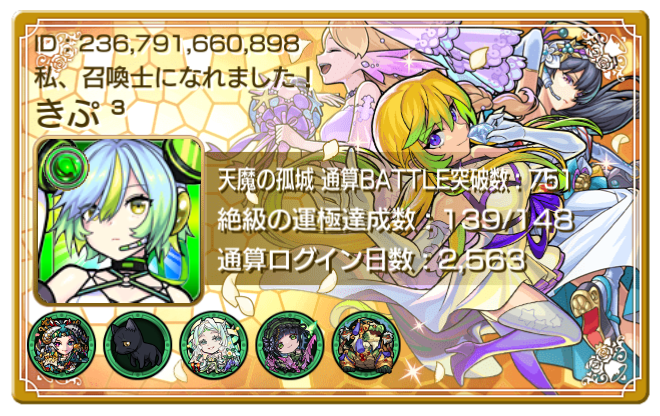
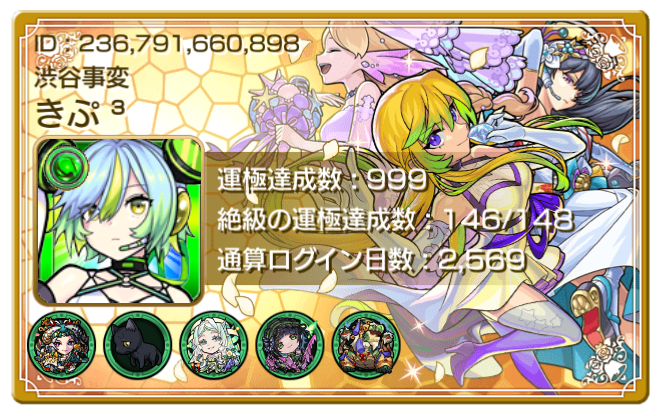
旧絶級　コンプリート記念日

diff --git a/monst.html b/monst.html
@@ -26,16 +26,16 @@
     <dd>・実際の戦績を公開しておく場とする。</dd>
     <img src="https://illustimage.com/photo/1701.png?20151101" alt="" width="400" height="10">
     <dt>[ 基本戦績 ]</dt>
-    <dd>・通算ログイン2563日   約7年</dd>
-    <dd>・ランク1280 </dd>
-    <dd>・運極🍀980↑</dd>
+    <dd>・通算ログイン2569日   約7年</dd>
+    <dd>・ランク1282 </dd>
+    <dd>・運極🍀990↑ </dd>
     <dd>・ガチャ限所持：  1320↑　限定所持：  360↑</dd>
     <dd>・紋章力 </dd>
-    <dd>🔥 16600↑</dd>
-    <dd>🌊 17100↑</dd>
-    <dd>🍃 16700↑</dd>
-    <dd>🌟 18200↑</dd>
-    <dd>👿 18300↑</dd>
+    <dd>🔥 16800↑</dd>
+    <dd>🌊 17200↑</dd>
+    <dd>🍃 16900↑</dd>
+    <dd>🌟 18600↑</dd>
+    <dd>👿 18800↑</dd>
     <img src="https://illustimage.com/photo/1701.png?20151101" alt="" width="400" height="10">
     <dt>[ コンテンツ戦績 ]</dt>
 
@@ -55,13 +55,13 @@
 
     <!-- 禁忌の獄 -->
     <img src="https://img.gamewith.jp/img/2a4bd99184118d7d37e74c7e4073afb9.jpeg" alt="" width="200" height="" title="禁忌の獄">
-    <dd>・制覇回数  55 (深淵7)  回  </dd>
+    <dd>・制覇回数  56 (深淵7)  回  </dd>
 
     <img src="https://illustimage.com/photo/1701.png?20151101" alt="" width="250" height="10"><dd></dd>
 
     <!-- 未開の大地 -->
     <img src="https://img.gamewith.jp/img/275fe70d9f39caa154720955d1e0418a.png" alt="" width="200" height="" title="未開の大地">
-    <dd>・制覇回数  43 (in52) 回  </dd>
+    <dd>・制覇回数  44 (in53) 回  </dd>
 
     <img src="https://illustimage.com/photo/1701.png?20151101" alt="" width="250" height="10"><dd></dd>
 
@@ -88,7 +88,7 @@
     <img src="https://img.gamewith.jp/article_tools/monst/gacha/6103.jpg" alt="" width="30" height="" title="グランディオーソ">🍀31
 
                                                                                                        <!-- ヴァルハラ -->
-    <img src="https://img.gamewith.jp/article_tools/monst/gacha/6699.jpg" alt="" width="30" height="" title="ヴァルハラ">🍀7
+    <img src="https://img.gamewith.jp/article_tools/monst/gacha/6699.jpg" alt="" width="30" height="" title="ヴァルハラ">🍀13
 
                                                                                                        <!-- パズル -->
     <img src="https://img.gamewith.jp/article_tools/monst/gacha/7329.jpg" alt="" width="30" height="" title="パズル">🍀3<dd></dd>
@@ -125,39 +125,38 @@
     <img src="https://illustimage.com/photo/1701.png?20151101" alt="" width="400" height="10">
     <dt>[ 絶級運極　達成状況 ]</dt>
 
-    <dd>絶級クリア数：　186/188 </dd>
-    <dd>絶級運極達成数：　139/148 </dd>
-    <dd>轟絶：33 &emsp;爆絶：44 &emsp;超絶：62 &emsp;黎絶：0</dd>
+    <dd>絶級クリア数：　187/188 </dd>
+    <dd>絶級運極達成数：　146/148 </dd>
+    <dd>超絶：66 &emsp;爆絶：47 &emsp;轟絶：33 &emsp;黎絶：0</dd>
 
     <img src="https://illustimage.com/photo/1701.png?20151101" alt="" width="250" height="10">
 
     <dd>・超絶</dd>
                                                                                                       
-    <img src="https://img.gamewith.jp/article_tools/monst/gacha/5172.jpg" alt="" width="30" height="" title="蔵王権現">🍀81
-    <img src="https://img.gamewith.jp/article_tools/monst/gacha/5419.jpg" alt="" width="30" height="" title="軍荼利明王">🍀5
-    <img src="https://img.gamewith.jp/article_tools/monst/gacha/5523.jpg" alt="" width="30" height="" title="降三世明王">🍀3<dd></dd>
-    <img src="https://img.gamewith.jp/article_tools/monst/gacha/7175.jpg" alt="" width="30" height="" title="オオクチノマカミ">🍀3<dd></dd>
+    <img src="./images/t-z.GIF" alt="" width="250" height="" title="">
+    <dd>🍀極　All　Perfect!</dd>
 
     <img src="https://illustimage.com/photo/1701.png?20151101" alt="" width="250" height="10">
 
     <dd>・爆絶</dd>
                                                                                                       
-    <img src="https://img.gamewith.jp/article_tools/monst/gacha/5441.jpg" alt="" width="30" height="" title="テラ">🍀60
-    <img src="https://img.gamewith.jp/article_tools/monst/gacha/5958.jpg" alt="" width="30" height="" title="フェムト">🍀3<dd></dd>
-    <img src="https://img.gamewith.jp/article_tools/monst/gacha/7092.jpg" alt="" width="30" height="" title="パライソ">🍀23<dd></dd>
+    <img src="./images/b-z.GIF" alt="" width="250" height="" title="">
+    <dd>🍀極　All　Perfect!</dd>
 
     <img src="https://illustimage.com/photo/1701.png?20151101" alt="" width="250" height="10">
 
     <dd>・轟絶</dd>
-                                                                                                      
+                                
+    <img src="./images/g-z.GIF" alt="" width="250" height="">
     <dd>🍀極　All　Perfect!</dd>
 
     <img src="https://illustimage.com/photo/1701.png?20151101" alt="" width="250" height="10">
 
     <dd>・黎絶</dd>
 
-    <img src="https://img.gamewith.jp/article_tools/monst/gacha/7385.jpg" alt="" width="30" height="" title="フォーサー">🍀未クリア
+    <img src="https://img.gamewith.jp/article_tools/monst/gacha/7385.jpg" alt="" width="30" height="" title="フォーサー">🍀1
     <img src="https://img.gamewith.jp/article_tools/monst/gacha/7487.jpg" alt="" width="30" height="" title="ロヴァー">🍀未クリア<dd></dd>
+    <img src="./images/r-z.PNG" alt="" width="200" height="">
 
     <img src="https://illustimage.com/photo/1701.png?20151101" alt="" width="250" height="10">
 
